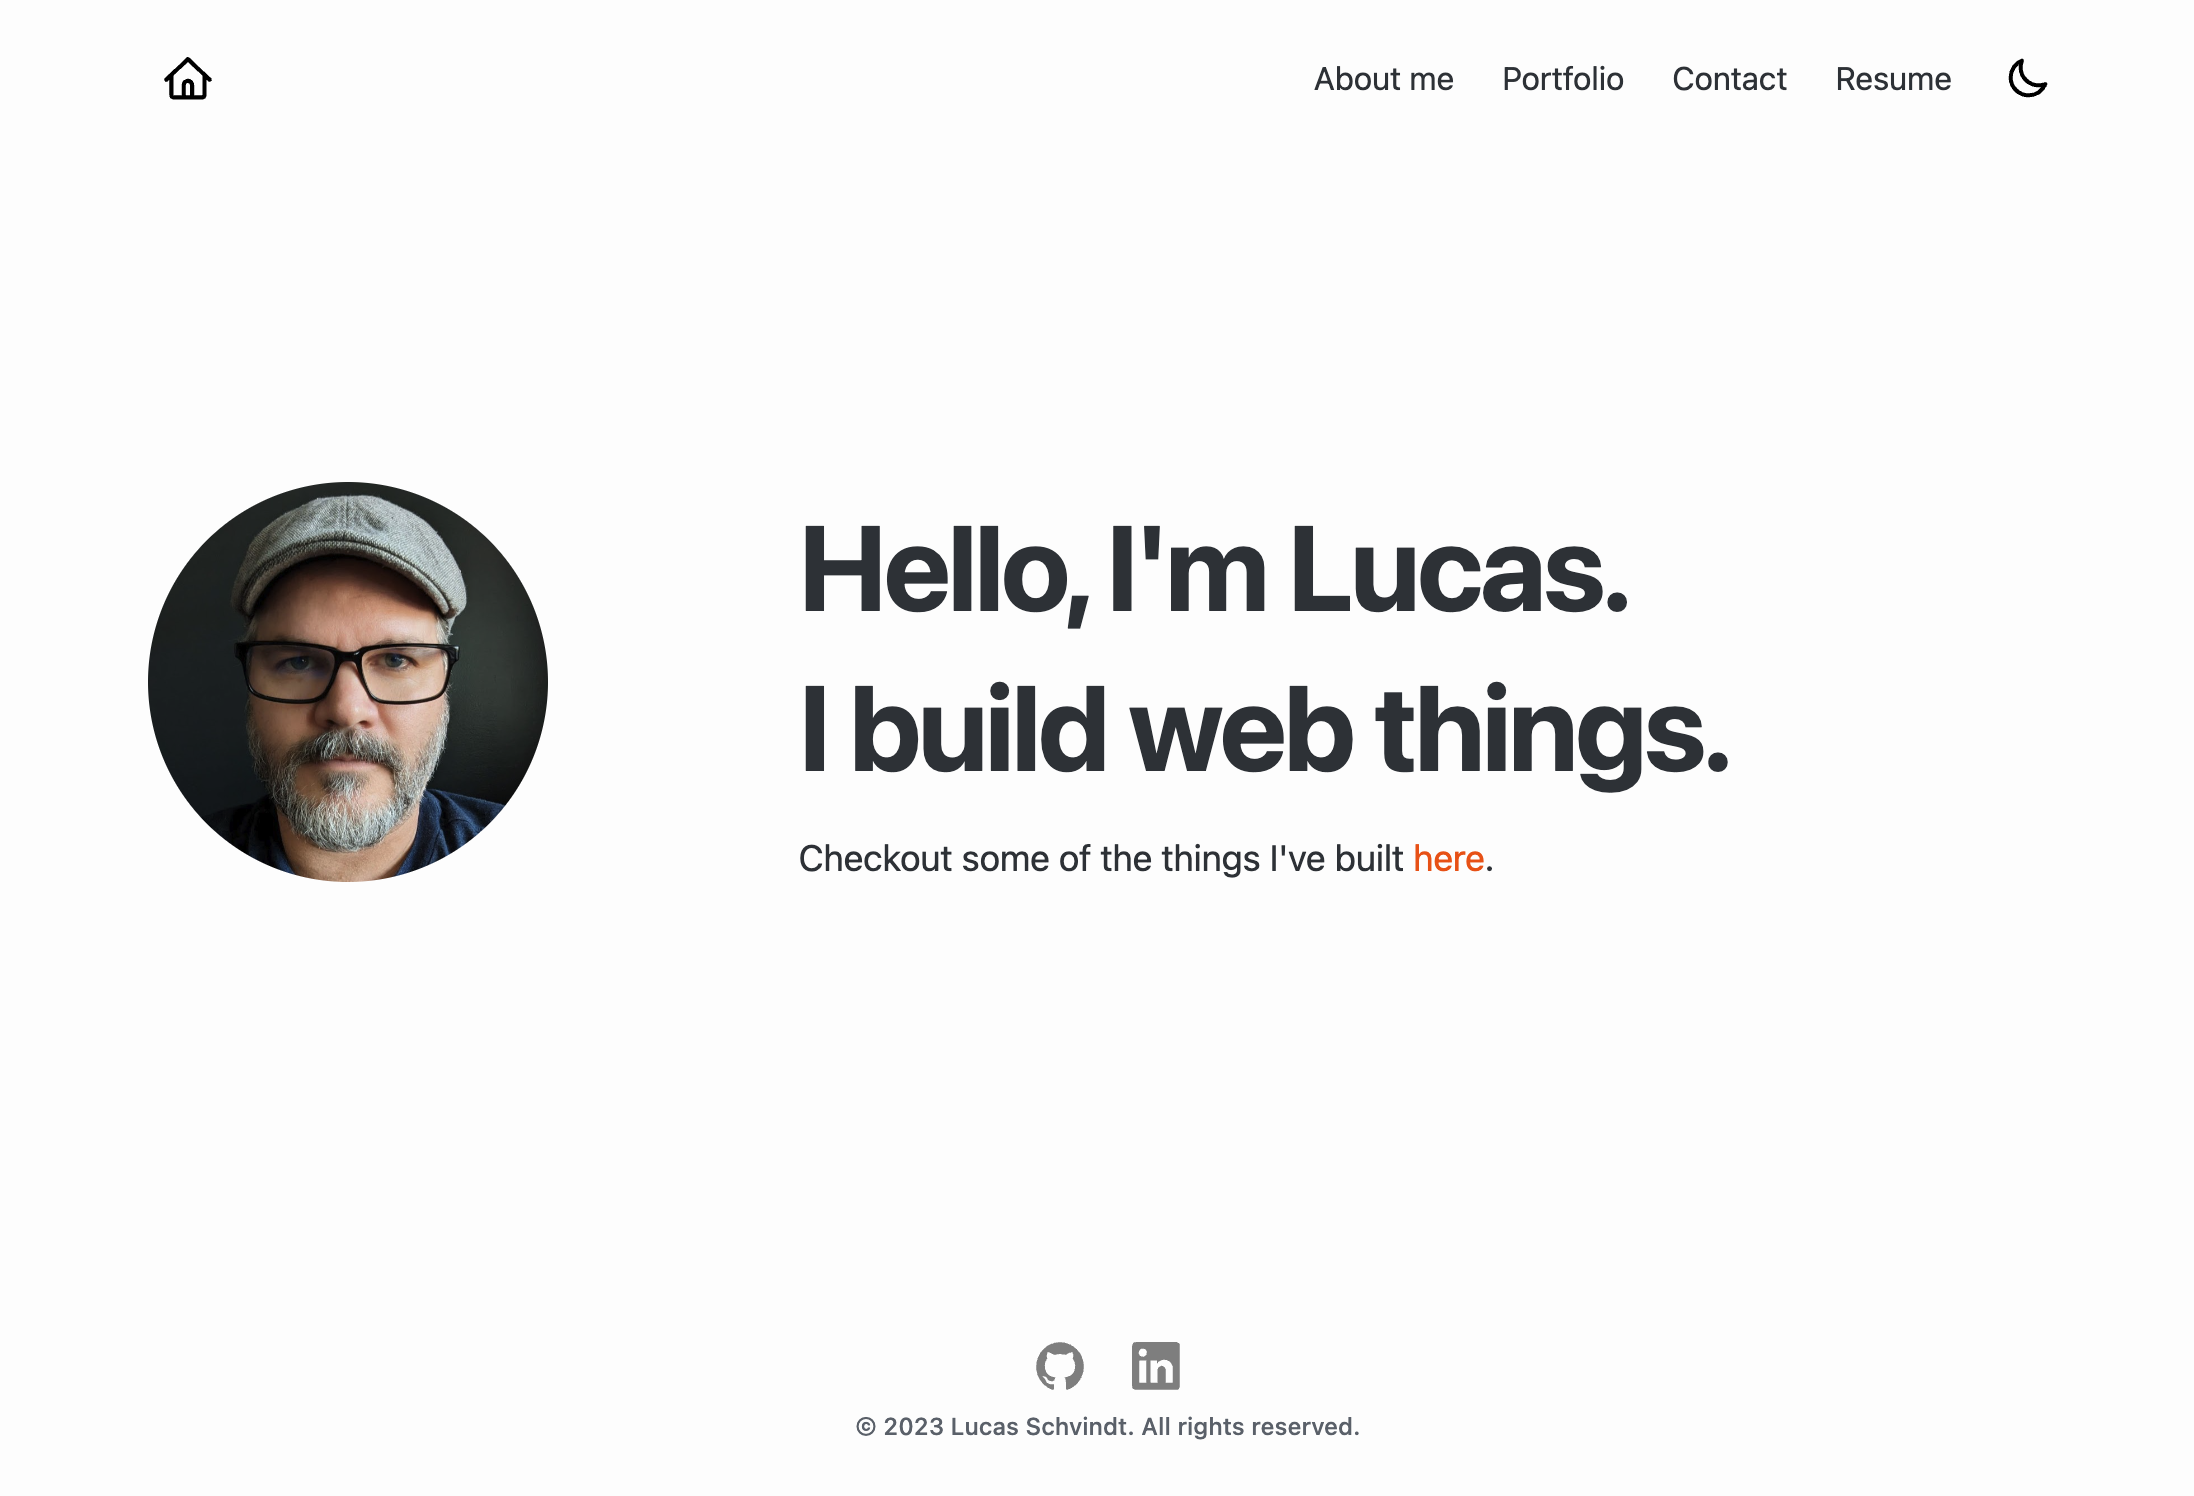
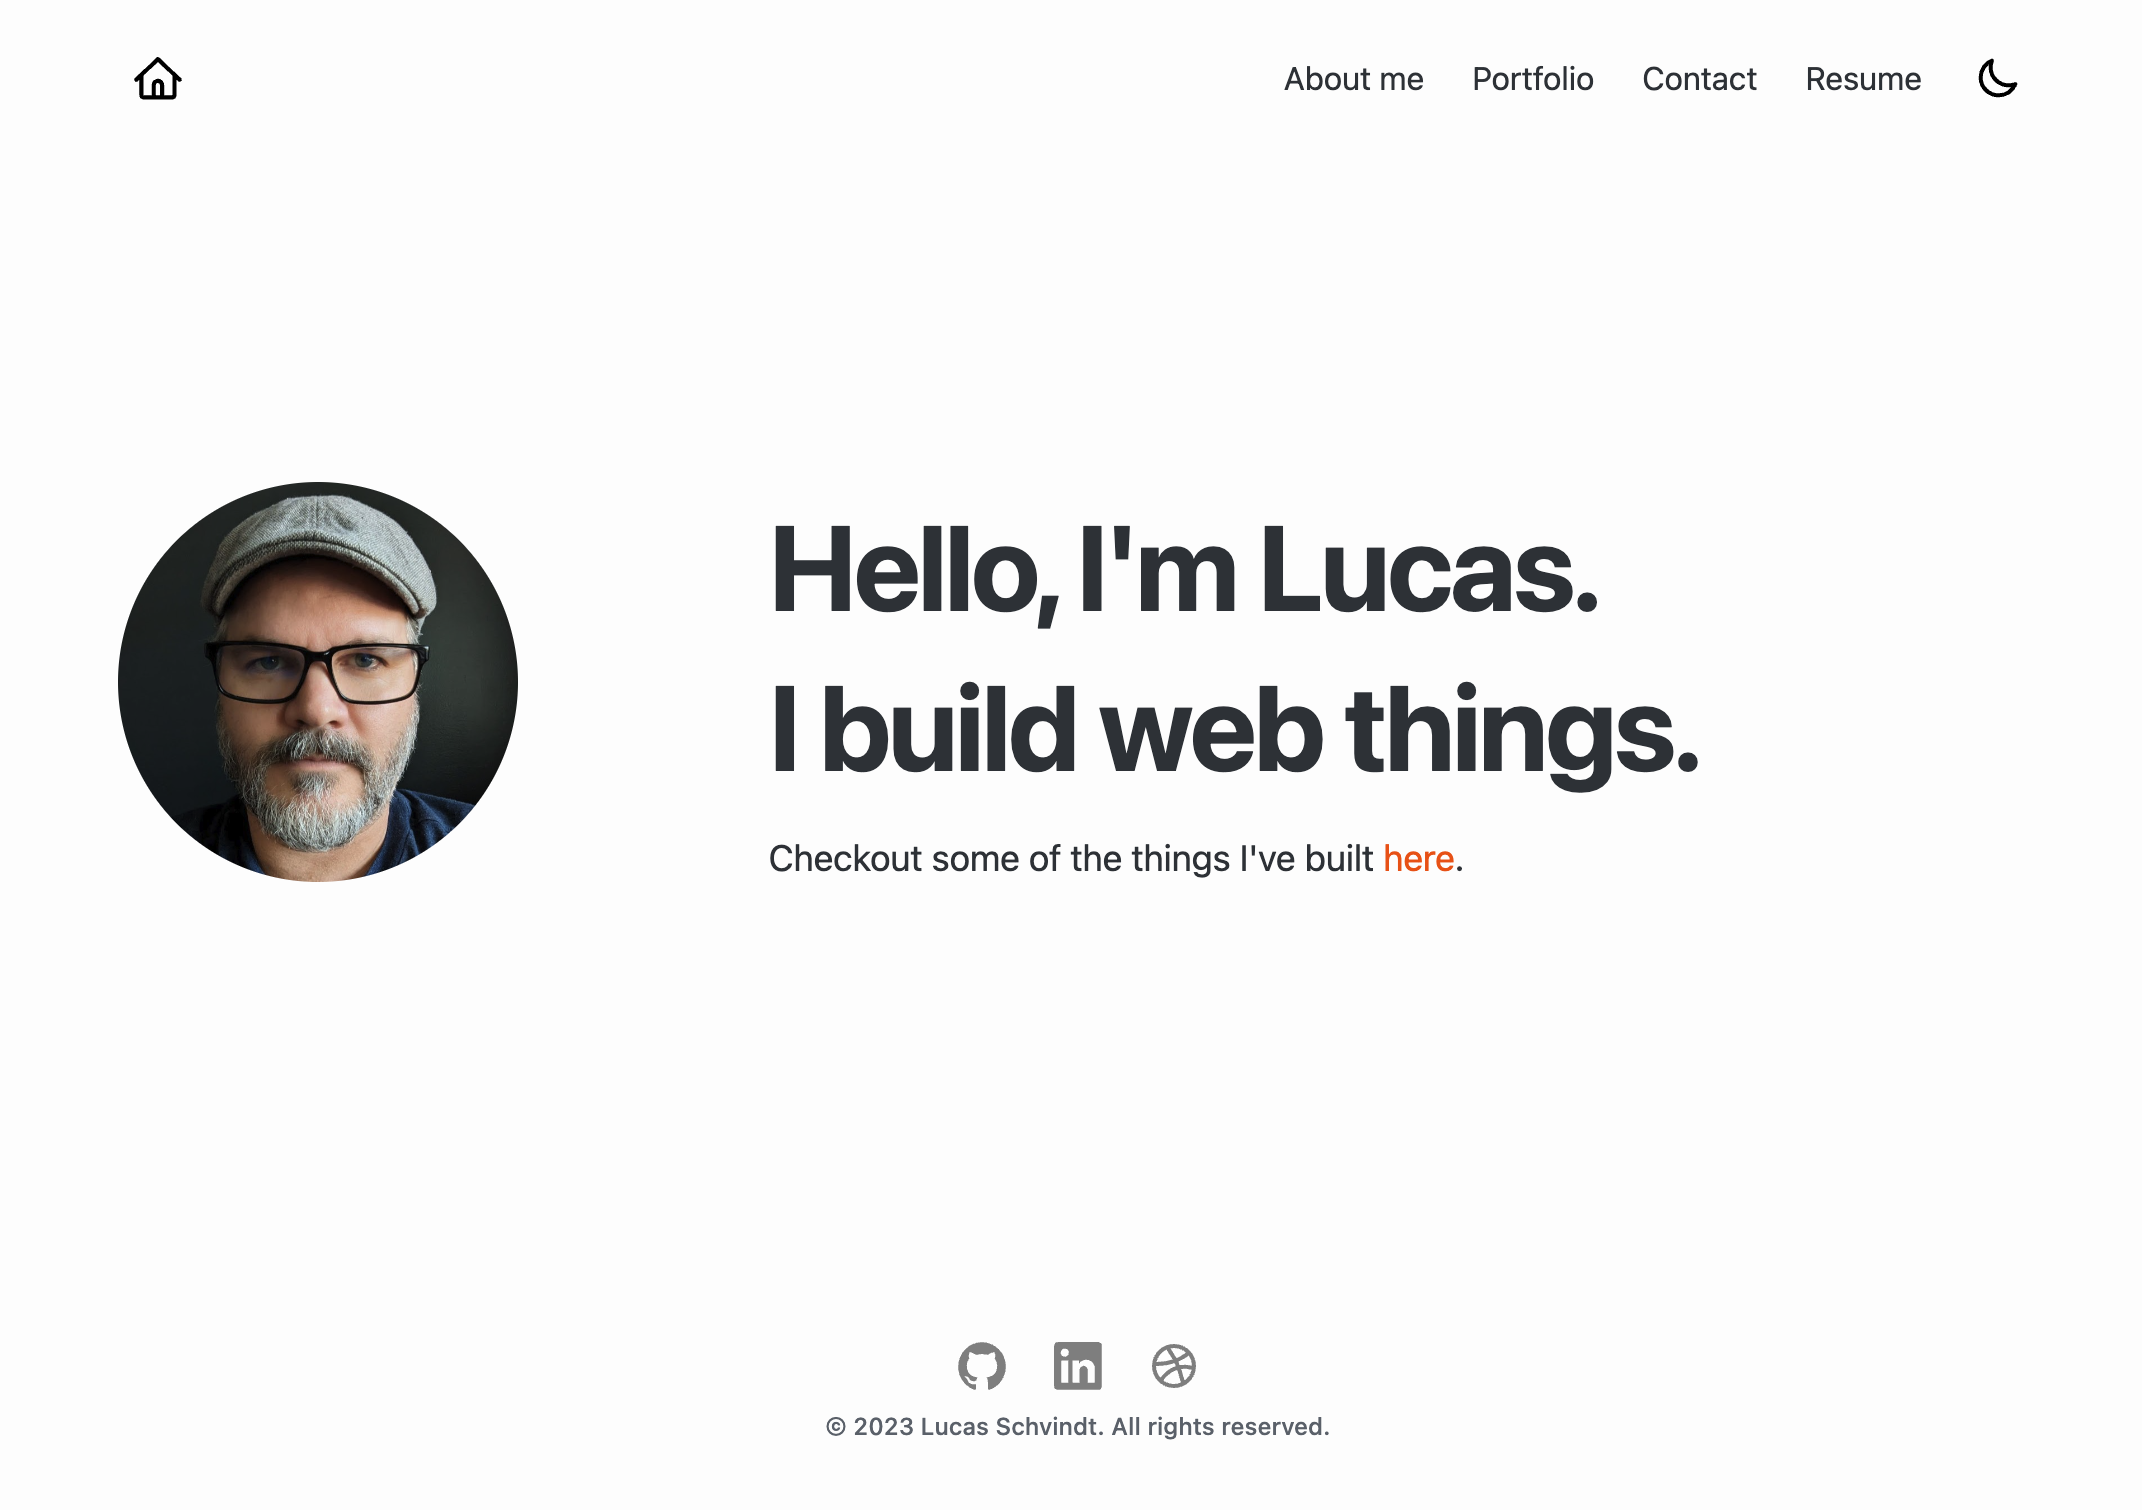
Added a 3rd social link per requirements

diff --git a/src/components/Footer/Footer.jsx b/src/components/Footer/Footer.jsx
@@ -1,27 +1,30 @@
-import { Link as RouterLink } from "react-router-dom";
+import { Link as RouterLink } from 'react-router-dom';
 import Link from '@mui/joy/Link';
 import List from '@mui/joy/List';
 import ListItem from '@mui/joy/ListItem';
 import Box from '@mui/joy/Box';
 import GithubIcon from '../Icons/GithubIcon';
 import LinkedInIcon from '../Icons/LinkedInIcon';
+import DribbbleIcon from '../Icons/DribbbleIcon'; 
 import Typography from '@mui/joy/Typography';
 import styles from './Footer.module.css';
 
 const Footer = () => {
     const socialItems = [
-        { to: "https://github.com/skywalkah", text: <GithubIcon /> },
-        { to: "https://www.linkedin.com/in/uxwebdesign/", text: <LinkedInIcon /> }
+        { to: 'https://github.com/skywalkah', text: <GithubIcon /> },
+        { to: 'https://www.linkedin.com/in/uxwebdesign/', text: <LinkedInIcon /> },
+        { to: 'https://dribbble.com/lukeswg', text: <DribbbleIcon /> }
     ];
     return (
         <footer className={styles.footer}>
-            <List className={styles.socialLinks} orientation="horizontal">
+            <List className={styles.socialLinks} orientation='horizontal'>
                 {socialItems.map((link, index) => (
                     <ListItem key={index}>
                         <Link
                             component={RouterLink}
                             to={link.to}
                             className={styles.socialLink}
+                            target='_blank'
                         >
                             {link.text}
                         </Link>
@@ -29,7 +32,7 @@ const Footer = () => {
                 ))}
             </List>
             <Box className={styles.copy}>
-                <Typography color="neutral" level="body-xs" align="center">
+                <Typography color='neutral' level='body-xs' align='center'>
                     &copy; 2023 Lucas Schvindt. All rights reserved.
                 </Typography>
             </Box>

diff --git a/src/components/Icons/DribbbleIcon/DribbbleIcon.jsx b/src/components/Icons/DribbbleIcon/DribbbleIcon.jsx
@@ -1,0 +1,9 @@
+import styles from './DribbbleIcon.module.css';
+
+const DribbbleIcon = () => (
+    <svg xmlns="http://www.w3.org/2000/svg" fill="none" viewBox="0 0 24 24" width="24px" height="24px" className={styles.dribbleIcon}>
+        <path fill="#000" fillRule="evenodd" d="M12 23c6.075 0 11-4.925 11-11S18.075 1 12 1 1 5.925 1 12s4.925 11 11 11Zm-6.856-5.18A8.957 8.957 0 0 1 3.007 12v-.002c3.606-.036 6.569-.514 9.235-1.42.225.482.443.975.654 1.478-.34.113-.675.239-1.004.378-2.65 1.115-4.887 3.027-6.748 5.386Zm1.462 1.377A8.953 8.953 0 0 0 12 20.993c1.219 0 2.38-.242 3.44-.682a45.87 45.87 0 0 0-1.813-6.39c-.327.105-.646.224-.96.356-2.311.973-4.329 2.688-6.06 4.92Zm8.986-5.72a47.73 47.73 0 0 1 1.675 5.813 8.997 8.997 0 0 0 3.536-5.443c-1.889-.488-3.62-.587-5.21-.37Zm-.735-1.91c1.897-.326 3.943-.26 6.135.266a8.95 8.95 0 0 0-1.63-5c-1.726 1.22-3.434 2.229-5.25 3.021.257.558.506 1.129.745 1.712Zm-3.511-2.799C8.997 9.534 6.39 9.945 3.23 9.995a9.011 9.011 0 0 1 5.02-6.171 38.515 38.515 0 0 1 3.097 4.944Zm1.884-.712c1.658-.714 3.217-1.625 4.798-2.73A8.96 8.96 0 0 0 12 3.006c-.599 0-1.184.06-1.75.17a40.782 40.782 0 0 1 2.98 4.88Z" clipRule="evenodd"/>
+    </svg>
+);
+
+export default DribbbleIcon;

diff --git a/src/components/Icons/DribbbleIcon/DribbbleIcon.module.css b/src/components/Icons/DribbbleIcon/DribbbleIcon.module.css
@@ -1,0 +1,5 @@
+[data-joy-color-scheme="dark"] {
+    & .dribbbleIcon path {
+        stroke: #fff;
+    }
+}

diff --git a/src/components/Icons/DribbbleIcon/index.js b/src/components/Icons/DribbbleIcon/index.js
@@ -1,0 +1,3 @@
+import DribbbleIcon from "./DribbbleIcon";
+
+export default DribbbleIcon;
